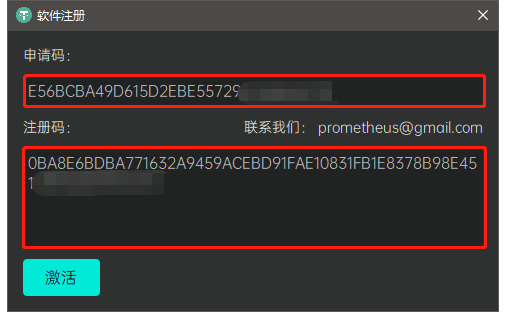
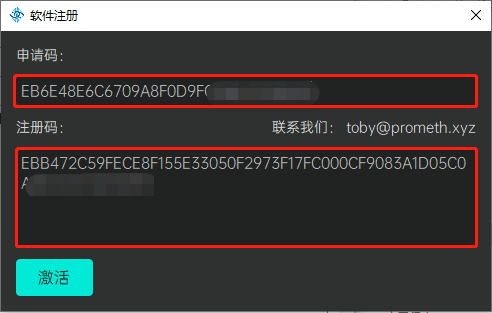
update promholostudio document

diff --git a/docs/page_deviceSetting.md b/docs/page_deviceSetting.md
@@ -4,53 +4,57 @@
 ## 功能介绍
 设备调整模块负责对接入系统的相机设备进行相关参数的调整和画面预览。界面上分为左边的[视频预览区](#deviceSetting_previewArea)和右边的[参数设置区](#deviceSetting_settingArea)
 
-![image](imgs/PromHoloStudio/page_deviceSetting/img_devicesetting_temp.png)
+<img src="imgs/PromHoloStudio/page_deviceSetting/img_devicesetting_temp.png" width="75%">
+
 ## 操作指南
 ###<span id = "deviceSetting_previewArea">视频预览区</span>
-视频预览区将显示当前已打开选中相机的视频画面预览，其中画面左边部分显示该相机的彩色图，右边部分显示该相机的深度图。彩色图/深度图上方将显示该相机的相机名称-图像类型后缀（例如：相机00的彩色图为00-color，对应的深度图为00-depth），而如果该相机是主相机的话，则会在相机名称前冠以[main]字样（例如：相机00为主相机，其彩色图为[main]00-color，对应的深度图为[main]00-depth）。
+视频预览区将显示当前选中的已打开相机的视频画面预览，其中画面左边部分显示该相机的彩色图，右边部分显示该相机的深度图。彩色图/深度图上方将显示该相机的相机名称-图像类型后缀（例如：相机00的彩色图为00-color，对应的深度图为00-depth），而如果该相机是主相机的话，则会在相机名称前冠以[main]字样（例如：相机00为主相机，其彩色图为[main]00-color，对应的深度图为[main]00-depth）。
 
-![image](imgs/PromHoloStudio/page_deviceSetting/img_devicesetting2_temp.png)
+<img src="imgs/PromHoloStudio/page_deviceSetting/img_devicesetting2_temp.png" width="50%">
 
 ###<span id = "deviceSetting_settingArea">参数设置区</span>
 参数设置区将引导用户对当前接入系统的相机设备进行相关参数的调整。具体操作流程如下：
 
 #### 1.刷新设备
-![image](imgs/PromHoloStudio/page_deviceSetting/img_devicesetting3_temp.png)
-用户点击刷新设备按钮将刷新当前已接入系统的相机设备信息，并在按钮左边向用户展示其接入数量。刷新设备操作将核对当前接入系统的相机设备授权信息，对于非法授权的相机设备将不予以支持，具体请参考[相机授权](promholostudio.md#CameraLicense)部分的描述。
+<img src="imgs/PromHoloStudio/page_deviceSetting/img_devicesetting3_temp.png" width="40%">
+
+用户点击刷新设备按钮将刷新当前已接入系统的相机设备信息，并在按钮左边向用户展示当前相机的接入数量。
 *注意：有可能因设备连接不良而导致某些相机设备刷新不出或者刷新失败，此时用户需根据软件的反馈检查相机设备的连接情况，尝试重新拔插设备并再次刷新。*
 
 ####<span id = "DeviceSetting_OpenOrCloseCamera">2.打开/关闭相机</span>
 ![image](imgs/PromHoloStudio/img_openDevice_temp.png) / ![image](imgs/PromHoloStudio/img_closeDevice_temp.png)
-用户在成功刷新设备后，点击“打开相机”按钮将打开所有接入系统的相机设备；成功打开相机后，[视频预览区](#deviceSetting_previewArea)将显示当前选中相机的视频画面预览；用户再次点击该按钮（此时该按钮显示“关闭相机”字样）将关闭所有的相机设备。
+用户在成功刷新设备后，点击“打开相机”按钮将打开所有接入系统的相机设备；成功打开相机后，[视频预览区](#deviceSetting_previewArea)将显示当前选中相机的视频画面预览；用户再次点击该按钮（此时该按钮显示“关闭相机”字样）将关闭所有的相机设备。打开相机操作将核对当前接入系统的相机设备授权信息，对于非法授权的相机设备将不予支持，具体请参考[相机授权](promholostudio.md#CameraLicense)部分的描述。
 *注意：有可能因设备连接不良而导致某些相机设备无法打开，此时用户需根据软件的反馈检查相机设备的连接情况，尝试重新拔插设备并再次刷新、打开相机。*
 
 #### 3.参数设置
-![image](imgs/PromHoloStudio/page_deviceSetting/img_devicesetting6_temp.png)
-用户在成功刷新设备后，即可在下方显示当前接入系统的相机设备信息列表。列表详细列举了当前相机设备的各类参数，并提供了相应的表格控件以便用户进行相应的设置和修改。用户可以使用表头提供的控件如下拉框等，一次性修改所有相机的对应参数，也可以在表体当中选定某台相机设备，使用表体控件来单独调整某台相机的具体参数。（被选中的相机在列表中高亮显示，如果此时相机已打开，则会同步在[视频预览区](#deviceSetting_previewArea)显示对应的相机画面预览）
+
+<img src="imgs/PromHoloStudio/page_deviceSetting/img_devicesetting6_temp.png" width="85%">
+
+用户在成功刷新设备后，即可在下方显示当前接入系统的相机设备信息列表。列表详细列举了当前相机设备的各类参数，并提供了相应的表格控件以便用户进行相应的设置和修改。用户可以使用表头控件如下拉框等，一次性修改所有相机的对应参数，也可以在表体当中鼠标选定某台相机设备，双击其列表项，使用表体控件来单独调整某台相机的具体参数。（被选中的相机在列表中高亮显示，如果此时相机已打开，则会在[视频预览区](#deviceSetting_previewArea)同步显示对应的相机预览画面）
 *注意：除了[主相机](#id_page_deviceSetting_mainCamera)选择以及[相机名称](#id_page_deviceSetting_cameraName)这两个设定需要在表体中单独对每台相机进行调整设置之外，其余参数一般推荐使用表头控件统一调整，使得每台相机的对应参数保持一致，这样可以更好的保证系统的拍摄质量。*
 
 **设备信息列表参数**：
 
-* **<spand id = "id_page_deviceSetting_mainCamera">主相机</span>**：指代全息容积拍摄影棚当中正对用户水平放置的某台相机。用户初次使用本软件时，需要在成功刷新设备信息后，在设备信息列表的表体当中勾选指定。（*正确指定主相机关乎[设备标定](page_deviceCalib.md#id_page_deviceCalib)的运行结果，该环节不可省略。*）
+* **<spand id = "id_page_deviceSetting_mainCamera">主相机</span>**：指代全息容积拍摄影棚当中正对用户脸部的某台相机。用户初次使用本软件时，需要在成功刷新设备信息后，在设备信息列表的表体当中勾选指定。（*正确指定主相机关乎[设备标定](page_deviceCalib.md#id_page_deviceCalib)的运行结果，该环节不可省略。*）
 
 * **<spand id = "id_page_deviceSetting_cameraName">相机名称</span>**：用户初次使用本软件时，相机名称默认为数字序号（如00、01、02......）。用户成功刷新设备信息后，可以在设备信息列表的表体当中选中某台相机设备，双击其“相机名称”文本项，输入自定义的相机名称。（*最大支持4个中文字符或者8个英文字符。*）
 
 * **序列号**：相机设备的唯一设备ID，仅用于显示，不可手动修改。
 
-* **分辨率**：相机拍摄画面的彩色图像分辨率，支持1280x720、1920x1080、2560x1440、3840x2160四个档位。（*Holo录播模式下推荐使用1920x1080分辨率；Holo直播模式下只支持1280x720分辨率。*）
+* **分辨率**：相机拍摄画面的彩色图像分辨率，支持1280x720、1920x1080、2560x1440三个档位。
 
-* **帧率**：相机拍摄画面的帧率，支持5fps、15fps、30fps三个档位。（*推荐使用15fps档位，可以比较平衡的保证拍摄的质量和设备性能开销。*）
+* **帧率**：相机拍摄画面的帧率，支持5fps、15fps两个档位。（*默认推荐使用15fps档位*）
 
-* **格式**：相机拍摄输出的影像格式，支持MJPG、RGBA32两个档位。（*Holo录播模式下只支持MJPG格式；Holo直播模式下只支持RGBA32格式。*）
+* **格式**：相机拍摄输出的影像格式，支持MJPG一个档位。
 
-* **深度**：相机拍摄深度图的成像方式，支持NFOV_UNBINNED、WFOV_BINNED、WFOV_UNBINNED三个档位。（*其中WFOV_BINNED、WFOV_UNBINNED为广视角成像，而系统默认采用NFOV_UNBINNED方式成像*）
+* **深度**：相机拍摄深度图的成像方式，支持NFOV_UNBINNED一个档位。
 
 * **白平衡**：相机拍摄画面彩色图的白平衡，支持WB-Auto、WB-4000、WB-5000、WB-6000四个档位。（*系统默认采用WB-Auto档位，用户可以根据各自实际情况酌情调整。*）
 
-* **同步**：全息容积拍摄影棚各相机数据流的同步方式，支持Sync-Auto、Sync-Master、Sync-Subordinate、Sync-Standalone四个档位。（*系统默认采用Sync-Auto自动同步，不建议用户更改该参数值。*）
+* **同步**：全息容积拍摄影棚各相机数据流的同步方式，支持Sync-Auto一个档位。
 
 * **曝光**：相机拍摄的曝光时长，支持Expo-Auto、Expo-3ms、Expo-10ms、Expo-20ms、Expo-30ms四个档位。（*系统默认采用Expo-3ms档位，用户可以根据各自实际情况酌情调整。*）
 
-* **GAIN**：相机拍摄的亮度补偿，调节范围：1~255，值越大画面越亮（*系统默认采用127这个中间值，用户可以根据各自实际情况酌情调整。*）
+* **GAIN**：相机拍摄的亮度补偿，调节范围：1~255，值越大画面越亮（*系统默认值为200，用户可以根据各自实际情况酌情调整。*）
 
 （*注意：以上参数信息，当相机处于打开状态时，仅可调节**主相机**、**白平衡**、**曝光**、**GAIN**四个参数，用户如果需要调整其他参数设置，请先[关闭相机](#DeviceSetting_OpenOrCloseCamera)*）

diff --git a/docs/page_deviceCalib.md b/docs/page_deviceCalib.md
@@ -2,18 +2,18 @@
 
 #<span id = "id_page_deviceCalib">设备标定</span>
 ## 功能介绍
-设备标定模块需要使用与全息容积拍摄影棚相配套的标定架，结合系统程序的标定算法完成影棚相机阵列的相机标定工作。该环节处理结果的好坏将直接影响人体容积视频的呈现质量。界面上分为左边的[视频预览区](#deviceCalib_previewArea)、右上方的[点云预览区](#deviceCalib_pointcloudArea)和右下方的[标定操作区](#deviceCalib_calibArea)
+设备标定模块需要使用与全息容积拍摄影棚相配套的标定架，结合系统标定算法完成影棚相机阵列的标定工作。该环节处理结果的好坏将直接影响人体容积视频的呈现质量。界面上分为左边的[视频预览区](#deviceCalib_previewArea)、右上方的[点云预览区](#deviceCalib_pointcloudArea)和右下方的[标定操作区](#deviceCalib_calibArea)
 
-![image](imgs/PromHoloStudio/page_deviceCalib/img_deviceCalib_temp.png)
+<img src="imgs/PromHoloStudio/page_deviceCalib/img_deviceCalib_temp.png" width="75%">
 
 ## 操作指南
 ###<span id = "deviceCalib_previewArea">视频预览区</span>
 视频预览区采用类似九宫格的矩阵排列方式，显示当前所有接入系统相机的视频画面预览。每台相机在各自画幅上均按照左边彩色图右边深度图的方式予以布局，彩色图/深度图上方将显示该相机的相机名称-图像类型后缀（例如：相机00的彩色图为00-color，对应的深度图为00-depth），而如果该相机是主相机的话，则会在相机名称前冠以[main]字样（例如：相机00为主相机，其彩色图为[main]00-color，对应的深度图为[main]00-depth）。
 
-![image](imgs/PromHoloStudio/img_videoPreview_temp.png)
+<img src="imgs/PromHoloStudio/img_videoPreview_temp.png" width="75%">
 
 ###<span id = "deviceCalib_pointcloudArea">点云预览区</span>
-点云预览区将对标定完成后的人体点云模型予以显示和预览。用户可以通过鼠标或键盘对点云模型的观察视角进行操控，依据其与真实人体的贴合程度直观上大致判断标定结果的好坏。
+点云预览区将对标定完成后的人体点云模型予以显示和预览。用户可以通过鼠标或键盘对点云模型的观察视角进行操控。
 
 **支持的鼠标/键盘操作**：
 * 鼠标滚轮：视角缩放。
@@ -21,36 +21,44 @@
 * 鼠标中键拖拽：视角平移。
 * 键盘R键：视角重置。
 
-![image](imgs/PromHoloStudio/img_pointcloudPreview_temp.png)
-<!-- <img src="imgs/PromHoloStudio/page_deviceCalib/img_deviceCalib_temp3.png" width="50%"> -->
+<img src="imgs/PromHoloStudio/img_pointcloudPreview_temp.png" width="50%">
 
 ###<span id = "deviceCalib_calibArea">标定操作区</span>
 标定操作区负责引导用户完成影棚相机阵列的相机标定工作。具体操作流程如下：
 
 #### 1.指定标定根目录
-![image](imgs/PromHoloStudio/page_deviceCalib/img_deviceCalib_temp4.png)
+<img src="imgs/PromHoloStudio/page_deviceCalib/img_deviceCalib_temp4.png" width="60%">
 
-用户在文本框当中输入标定任务的根目录路径（也可点击“浏览”按钮，在弹出的路径选择弹窗中选择指定该路径），该目录将存储标定所需的素材照片以及标定算法生成的各种中间文件。
+用户在文本框当中输入标定任务的根目录路径（也可点击“浏览”按钮，在弹出的路径选择弹窗中选择指定该路径）。该目录将存储标定所需的素材照片以及标定算法生成的各种中间文件。
 *注意：当从其他功能模块跳转到设备标定模块时，将弹出标定根目录的设定弹窗，用户也可以在该弹窗当中先行设定该目录路径。*
-![image](imgs/PromHoloStudio/page_deviceCalib/img_deviceCalib_temp5.png)
+
+<img src="imgs/PromHoloStudio/page_deviceCalib/img_deviceCalib_temp5.png" width="50%">
 
 #### 2.打开/关闭相机
 ![image](imgs/PromHoloStudio/img_openDevice_temp.png) / ![image](imgs/PromHoloStudio/img_closeDevice_temp.png)
-用户点击“打开相机”按钮，将刷新、打开所有接入系统的相机设备（该操作将核对当前接入系统的相机设备授权信息，对于非法授权的相机设备将不予以支持，具体请参考[相机授权](promholostudio.md#CameraLicense)部分的描述）；成功打开相机后，[视频预览区](#deviceCalib_previewArea)将显示当前所有接入系统相机的视频画面预览；用户再次点击该按钮（此时该按钮显示“关闭相机”字样）将关闭所有的相机设备。
+用户点击“打开相机”按钮，将刷新、打开所有接入系统的相机设备（该操作将核对当前接入系统的相机设备授权信息，对于非法授权的相机设备将不予支持，具体请参考[相机授权](promholostudio.md#CameraLicense)部分的描述）；成功打开相机后，[视频预览区](#deviceCalib_previewArea)将显示当前所有接入系统相机的视频画面预览；用户再次点击该按钮（此时该按钮显示“关闭相机”字样）将关闭所有的相机设备。
 *注意：有可能因设备连接不良而导致某些相机设备无法刷新/打开，此时用户需根据软件的反馈检查相机设备的连接情况，尝试重新拔插设备并再次刷新、打开相机。*
 
 #### 3.拍摄标定素材
-![image](imgs/PromHoloStudio/page_deviceCalib/img_deviceCalib_temp6.png)
+
+<img src="imgs/PromHoloStudio/page_deviceCalib/img_deviceCalib_temp6.png" width="60%">
 
 用户在设定好标定根目录并且成功打开相机之后，需要按照系统提示，结合全息容积影棚配套的标定架依次拍摄指定张数的标定素材照片。拍摄顺序如下：
 
-1. 用户进入影棚正中央，正面面朝[主相机](page_deviceSetting.md#id_page_deviceSetting_mainCamera)，双手双脚自然朝身子两侧稍稍打开，身体摆呈字母A样式垂直站立不动。另一位操作员用户点击标定操作区的白色圆形拍摄按钮，拍摄第一张标定素材“人形参考”。
+1. 用户进入影棚正中央，正面面朝[主相机](page_deviceSetting.md#id_page_deviceSetting_mainCamera)，双脚朝身子两侧稍稍打开，双手向上自然平举，身子垂直站立不动。另一位操作员用户点击标定操作区的白色圆形拍摄按钮，拍摄第一张标定素材“人形参考”。
 
-2. 将全息容积影棚配套的标定架摆入影棚正中央，标定架正面（也即棋盘格标定板正面）正对[主相机](page_deviceSetting.md#id_page_deviceSetting_mainCamera)并以此角度作为“0°”参考。操作员用户点击标定操作区的白色圆形拍摄按钮，拍摄“0°”标定架素材；拍摄完成后，将标定架以相对于上一次标定架摆设角度顺时针旋转45度，再次拍摄一组标定架素材，以此类推，直到将标定架旋转一周为止，一共拍摄8组不同角度的标定架素材。
+<img src="imgs/PromHoloStudio/page_deviceCalib/img_deviceCalib_temp8.png" width="25%">
+
+2. 将全息容积影棚配套的标定架摆入影棚正中央，标定架正面（也即棋盘格标定板正面）正对[主相机](page_deviceSetting.md#id_page_deviceSetting_mainCamera)并以此角度作为“0°”参考，待标定架稳定静止后，操作员用户点击标定操作区的白色圆形拍摄按钮，拍摄“0°”标定架素材；拍摄完成后，将标定架以相对于上一次标定架摆设角度逆时针旋转45度，待标定架稳定静止后，再次拍摄一组标定架素材；以此类推，直到将标定架旋转一周为止，一共拍摄8组不同角度的标定架素材。
+
+<img src="imgs/PromHoloStudio/page_deviceCalib/img_deviceCalib_temp9.png" width="25%">
 
 *注意：“人形参考”以及8组标定架拍摄角度未完成拍摄之前，标定操作区的拍摄提示将显示“未拍摄”字样，每完成一组拍摄后对应的拍摄提示将变更为“已拍摄”。点击标定操作区的“Reset”按钮将清空当前标定根目录下的所有文件，方便用户重新拍摄标定素材。*
 
 #### 4.设备标定
-![image](imgs/PromHoloStudio/page_deviceCalib/img_deviceCalib_temp7.png)
 
-用户完成标定素材的拍摄后，标定按钮将激活可用，点击标定按钮即可开始进行设备标定；按钮下方的进度条以及相应弹出的系统弹窗将显示标定的进度。标定完成后，[点云预览区](#deviceCalib_pointcloudArea)将显示之前拍摄“人形参考”标定素材的人体点云模型；如果标定失败，系统将提示用户重新拍摄标定素材并尝试再次进行设备标定。（*标定过程将占用大量的算力资源，并且持续时间较长，请用户耐心等待。*）
+<img src="imgs/PromHoloStudio/page_deviceCalib/img_deviceCalib_temp7.png" width="50%">
+
+用户完成标定素材的拍摄后，标定按钮将激活可用，点击标定按钮即可开始进行设备标定；按钮下方的进度条以及相应弹出的系统弹窗将显示标定的进度。标定完成后，[点云预览区](#deviceCalib_pointcloudArea)将显示之前拍摄“人形参考”标定素材的人体点云模型，用户可以依据其与真实人体的贴合程度直观上大致判断标定结果的好坏；如果标定失败（标定失败的原因有可能是标定素材拍摄不佳，比如拍摄标定架素材时架子发生晃动等），系统将提示用户重新拍摄标定素材并尝试再次进行设备标定。（*标定过程将占用大量的算力资源，并且持续时间较长，请用户耐心等待。*）
+
+<img src="imgs/PromHoloStudio/page_deviceCalib/img_deviceCalib_temp10.png" width="75%">

diff --git a/docs/promholostudio.md b/docs/promholostudio.md
@@ -2,7 +2,7 @@
 
 ## PromHoloStudio简介
 
-PromHoloStudio软件是由深圳普罗米修斯视觉技术有限公司开发的软件系统，用户结合配套提供的全息容积视频拍摄影棚，可以方便的进行人体容积视频的本地采集、后续编辑以及实时在线直播等相关操作。
+PromHoloStudio软件是由深圳普罗米修斯视觉技术有限公司开发的软件系统，用户结合配套提供的全息容积视频拍摄影棚，可以方便的进行人体容积视频的本地采集和后续编辑等相关操作。
 
 ##<span id = "id_promholostudio">PromHoloStudio功能模块</span>
 
@@ -10,25 +10,24 @@ PromHoloStudio软件是由深圳普罗米修斯视觉技术有限公司开发的
 * [设备标定](page_deviceCalib.md#id_page_deviceCalib)
 * [Holo录播](page_capture.md#id_page_capture)
 * [录播编辑](page_holoEdit.md#id_page_holoEdit)
-* [Holo直播](page_holoLive.md#id_page_holoLive)（可选）
 
 ## 准备工作
 * [软件注册](#Registration)
 * [相机授权](#CameraLicense)
 
 ###<span id = "Registration">软件注册</span>
-用户初次使用本软件时将弹出软件注册弹窗，请联系我们(<toby@prometh.xyz>)，将弹窗展示的软件申请码通过Email或者其他方式提供给我们。核实相关信息后，我们将把对应的软件注册码发送给您，请将其粘贴到注册弹窗的注册码输入区域，点击激活按钮即可完成本软件的激活注册。
+用户初次使用本软件时将弹出软件注册弹窗，请将弹窗展示的软件申请码通过电子邮件(<toby@prometh.xyz>)或者其他方式提供给我们。核实相关信息后，我们将把对应的软件注册码发送给您，请将其粘贴到注册弹窗的注册码输入区域，点击激活按钮即可完成本软件的激活注册。
 
-![image](imgs/PromHoloStudio/img_register.png)
+<img src="imgs/PromHoloStudio/img_register.png" width="50%">
 
 ###<span id = "CameraLicense">相机授权</span>
-用户全息容积视频拍摄影棚的相机设备发生变更时，请联系我们(<toby@prometh.xyz>)，将变更相机的设备ID通过Email或者其他方式提供给我们。核实相关信息后，我们将把对应的相机授权文件(license.dll)发送给您，请到本软件安装目录下更新替换相应文件即可完成相机授权。
+如果用户全息容积视频拍摄影棚的相机设备发生变更，打开相机时将弹出相机设备授权弹窗，请依照弹窗指引，将接入相机的设备SN号导出并将其通过电子邮件(<toby@prometh.xyz>)或者其他方式提供给我们。核实相关信息后，我们将把对应的相机授权文件(license.dll)发送给您，请到本软件安装目录下更新替换相应文件即可完成相机授权。
 
-![image](imgs/PromHoloStudio/img_cameralicense.png)
+<img src="imgs/PromHoloStudio/img_cameralicense2.png" width="40%">  <img src="imgs/PromHoloStudio/img_cameralicense.png" height="50%">
 
 ## 开始使用
 
-新用户初次使用本软件时将按照 [设备调整](page_deviceSetting.md#id_page_deviceSetting) > [设备标定](page_deviceCalib.md#id_page_deviceCalib) 的流程完成基本的系统使用初始化工作，待 [设备标定](page_deviceCalib.md#id_page_deviceCalib) 完成后，用户可以使用 [Holo录播](page_capture.md#id_page_capture) 模块进行人体容积视频素材的本地录制，然后使用 [录播编辑](page_holoEdit.md#id_page_holoEdit) 模块完成人体容积视频素材的预览、编辑和导出。购买了 [Holo直播](page_holoLive.md#id_page_holoLive) 模块的用户还可以直接在该模块当中进行人体容积视频的实时在线直播。
+新用户初次使用本软件时将按照 [设备调整](page_deviceSetting.md#id_page_deviceSetting) > [设备标定](page_deviceCalib.md#id_page_deviceCalib) 的流程完成基本的系统使用初始化工作，待 [设备标定](page_deviceCalib.md#id_page_deviceCalib) 完成后，用户可以使用 [Holo录播](page_capture.md#id_page_capture) 模块进行人体容积视频素材的本地录制，然后使用 [录播编辑](page_holoEdit.md#id_page_holoEdit) 模块完成人体容积视频素材的预览、编辑和导出。
 
 * [前往 设备调整 介绍页](page_deviceSetting.md#id_page_deviceSetting)
 
@@ -37,5 +36,3 @@ PromHoloStudio软件是由深圳普罗米修斯视觉技术有限公司开发的
 * [前往 Holo录播 介绍页](page_capture.md#id_page_capture)
 
 * [前往 录播编辑 介绍页](page_holoEdit.md#id_page_holoEdit)
-
-* [前往 Holo直播 介绍页](page_holoLive.md#id_page_holoLive)
